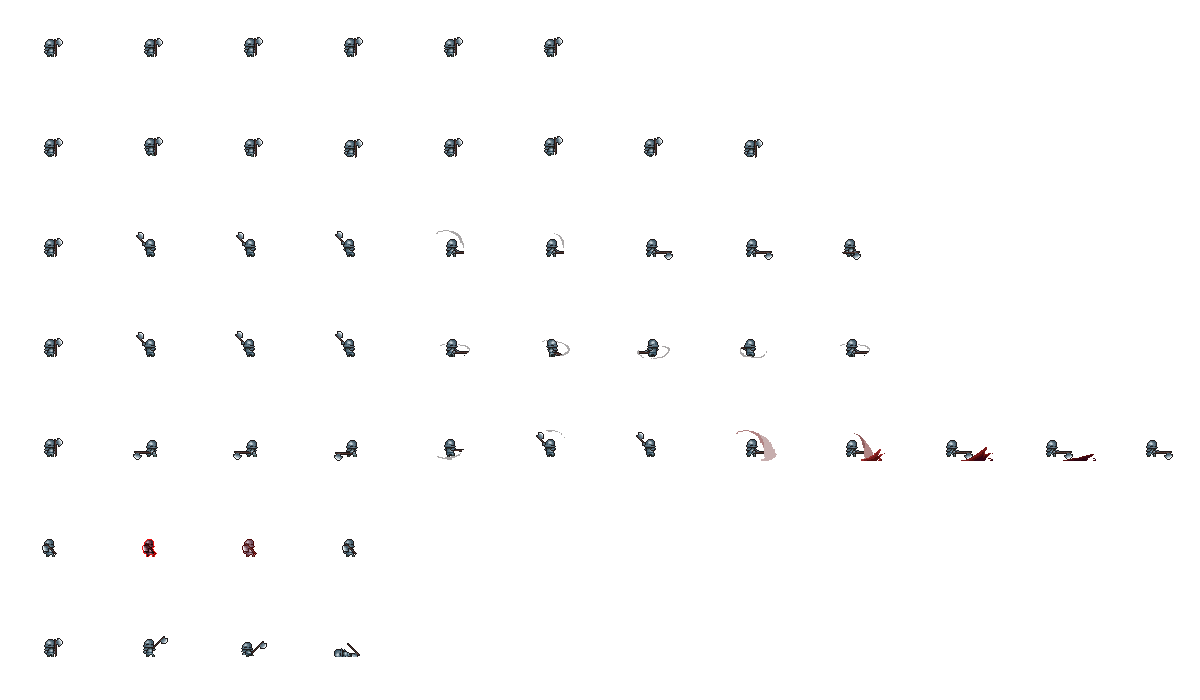
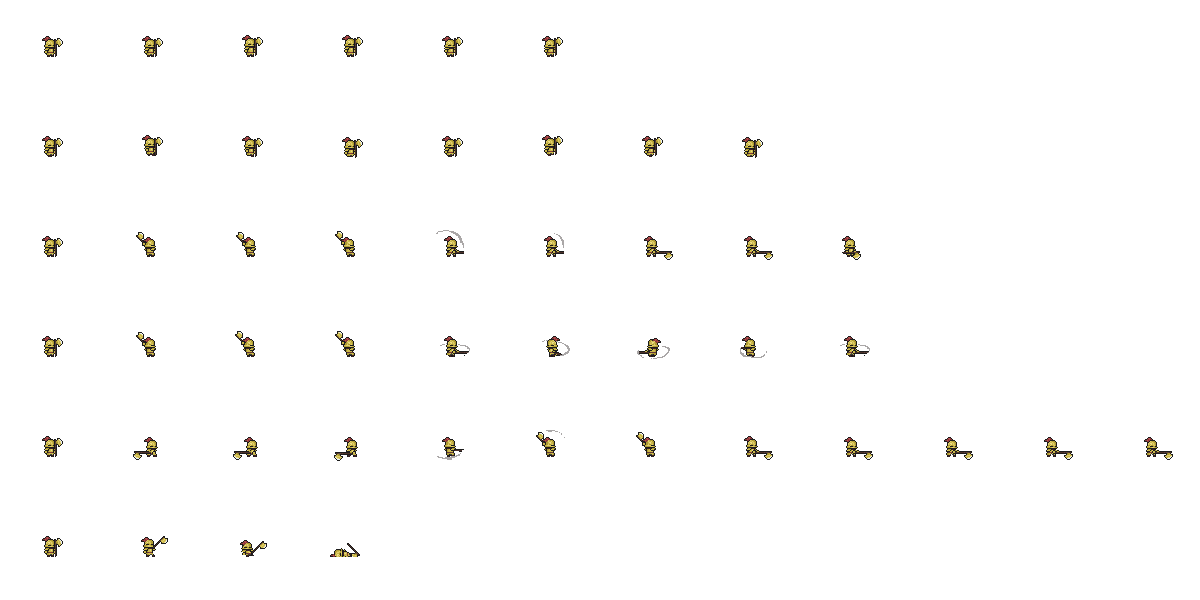
Switch gold knight image, and slightly buff gold knight to defeat crusader paladin.

diff --git a/src/entities/units.py b/src/entities/units.py
@@ -410,8 +410,8 @@ def get_unit_sprite_sheet(unit_type: UnitType, team: TeamType) -> SpriteSheet:
             frame_width=100,
             frame_height=100,
             scale=TINY_RPG_SCALE,
-            frames={AnimationType.IDLE: 6, AnimationType.WALKING: 8, AnimationType.ATTACKING: 8, AnimationType.DYING: 4},
-            rows={AnimationType.IDLE: 0, AnimationType.WALKING: 1, AnimationType.ATTACKING: 2, AnimationType.DYING: 6},
+            frames={AnimationType.IDLE: 6, AnimationType.WALKING: 8, AnimationType.ATTACKING: 9, AnimationType.DYING: 4},
+            rows={AnimationType.IDLE: 0, AnimationType.WALKING: 1, AnimationType.ATTACKING: 2, AnimationType.DYING: 5},
             animation_durations=CRUSADER_GOLD_KNIGHT_ANIMATION_DURATIONS,
             sprite_center_offset=(0, 0),
             attack_activation_frame=4

diff --git a/src/CONSTANTS.py b/src/CONSTANTS.py
@@ -93,7 +93,7 @@ CRUSADER_BLACK_KNIGHT_ANIMATION_DURATIONS = { # Same as horseman
 
 CRUSADER_GOLD_KNIGHT_HP = 275  # More than swordsman, but less than black knight
 CRUSADER_GOLD_KNIGHT_ATTACK_RANGE = 22 * TINY_RPG_SCALE
-CRUSADER_GOLD_KNIGHT_ATTACK_DAMAGE = 125  # Very high, but slow attack speed
+CRUSADER_GOLD_KNIGHT_ATTACK_DAMAGE = 150  # Very high, but slow attack speed
 CRUSADER_GOLD_KNIGHT_MOVEMENT_SPEED = 25 * TINY_RPG_SCALE * GAME_SPEED  # Slower than swordsman
 CRUSADER_GOLD_KNIGHT_ANIMATION_DURATIONS = {
     AnimationType.IDLE: 1.2 / GAME_SPEED,
